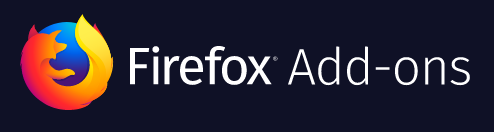
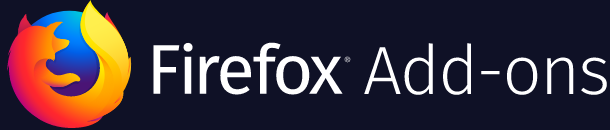
Update Readme, chrome/ff assets + Add gif

Changed region(s): [[0.0, 0.0, 1.0, 0.9846]]

diff --git a/Readme.md b/Readme.md
@@ -1,9 +1,12 @@
-[![Chrome web store](https://raw.githubusercontent.com/varundey/pltr/master/assets/chrome%20web%20store.png)](https://chrome.google.com/webstore/detail/pltr/jnandbgcohcjgonlhmgpjlcpbkaccbnk)
-[![Firefox Add-ons](https://raw.githubusercontent.com/varundey/pltr/master/assets/firefox%20add-ons.png)](https://addons.mozilla.org/en-US/firefox/addon/pltr/)
 [![CircleCI](https://circleci.com/gh/varundey/pltr/tree/master.svg?style=svg)](https://circleci.com/gh/varundey/pltr/tree/master)
+
 # pltr
 
 pltr is a browser extension which helps you show the progress you have made with the page as you scroll through
+
+[![Chrome web store](https://raw.githubusercontent.com/varundey/pltr/master/assets/chrome%20web%20store.png)](https://chrome.google.com/webstore/detail/pltr/jnandbgcohcjgonlhmgpjlcpbkaccbnk)
+[![Firefox Add-ons](https://raw.githubusercontent.com/varundey/pltr/master/assets/firefox%20add-ons.png)](https://addons.mozilla.org/en-US/firefox/addon/pltr/)
+
 
 ## Demo:
 pltr adds a small ribbon to the top of the page on page load:
@@ -13,7 +16,7 @@ As you progress through the page, pltr ribbon starts filling width of the screen
 ![pltr ribbon filling width of page on scrolling to the bottom](https://raw.githubusercontent.com/varundey/pltr/master/assets/page%20scrolled%20screenshot.png "Page scrolled")
 
 Here's a video for a better demo
-![pltr video demo showing how the ribbon advances on page progress](https://raw.githubusercontent.com/varundey/pltr/master/assets/pltr%20video.mov "pltr video demo")
+![pltr video demo showing how the ribbon advances on page progress](https://raw.githubusercontent.com/varundey/pltr/master/assets/pltr%20video.gif "pltr video demo")
 
 ## Inspiration
 I read a lot of articles on mobile when I am traveling to and from my office. A big part of me deciding whether to read the article at that time or to just save it for reading later solely depends on how lengthy it is. Since I use Firefox for Android and knowing Firefox supports installing add-ons on Android, I decided to solve my own problem.
